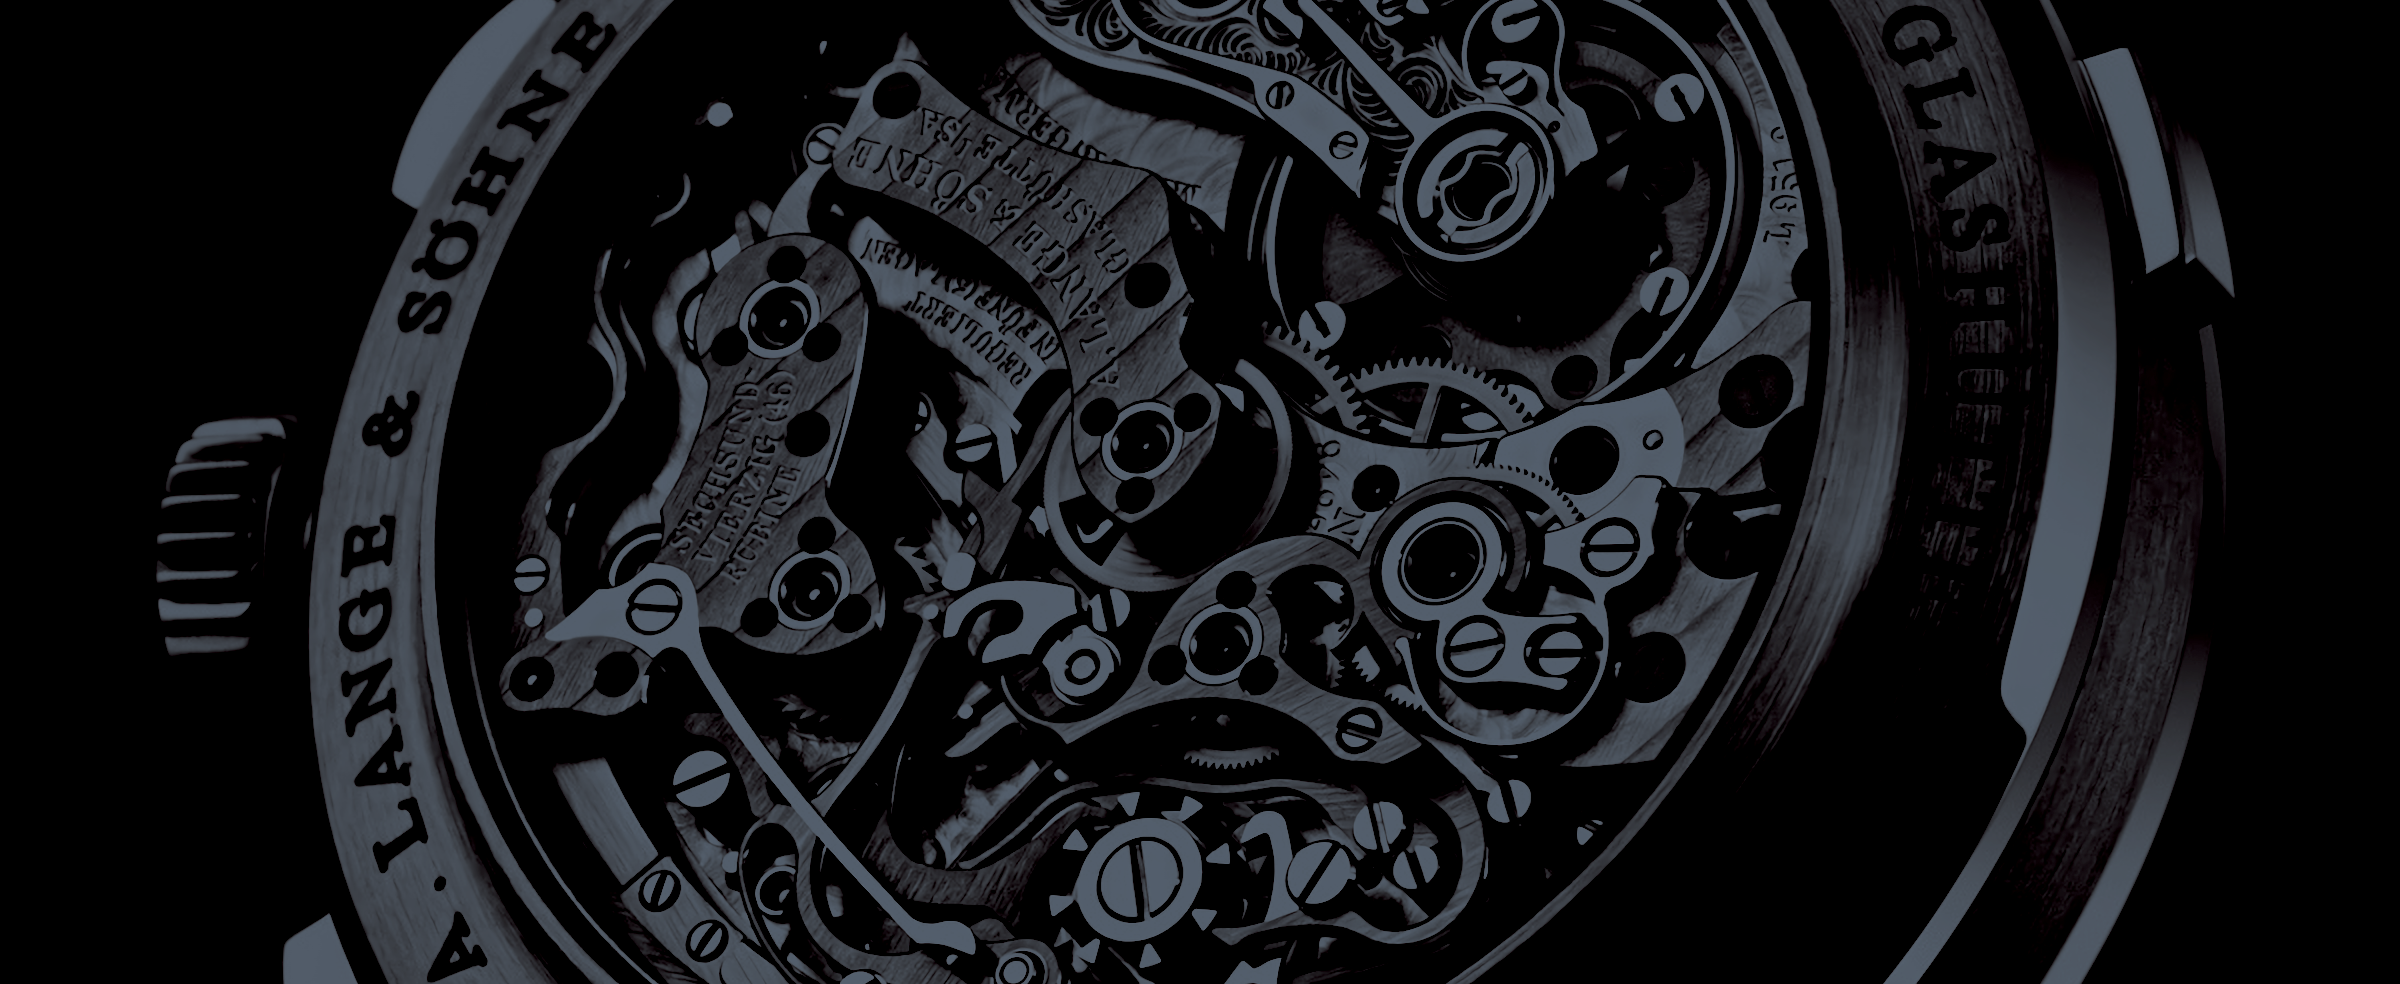
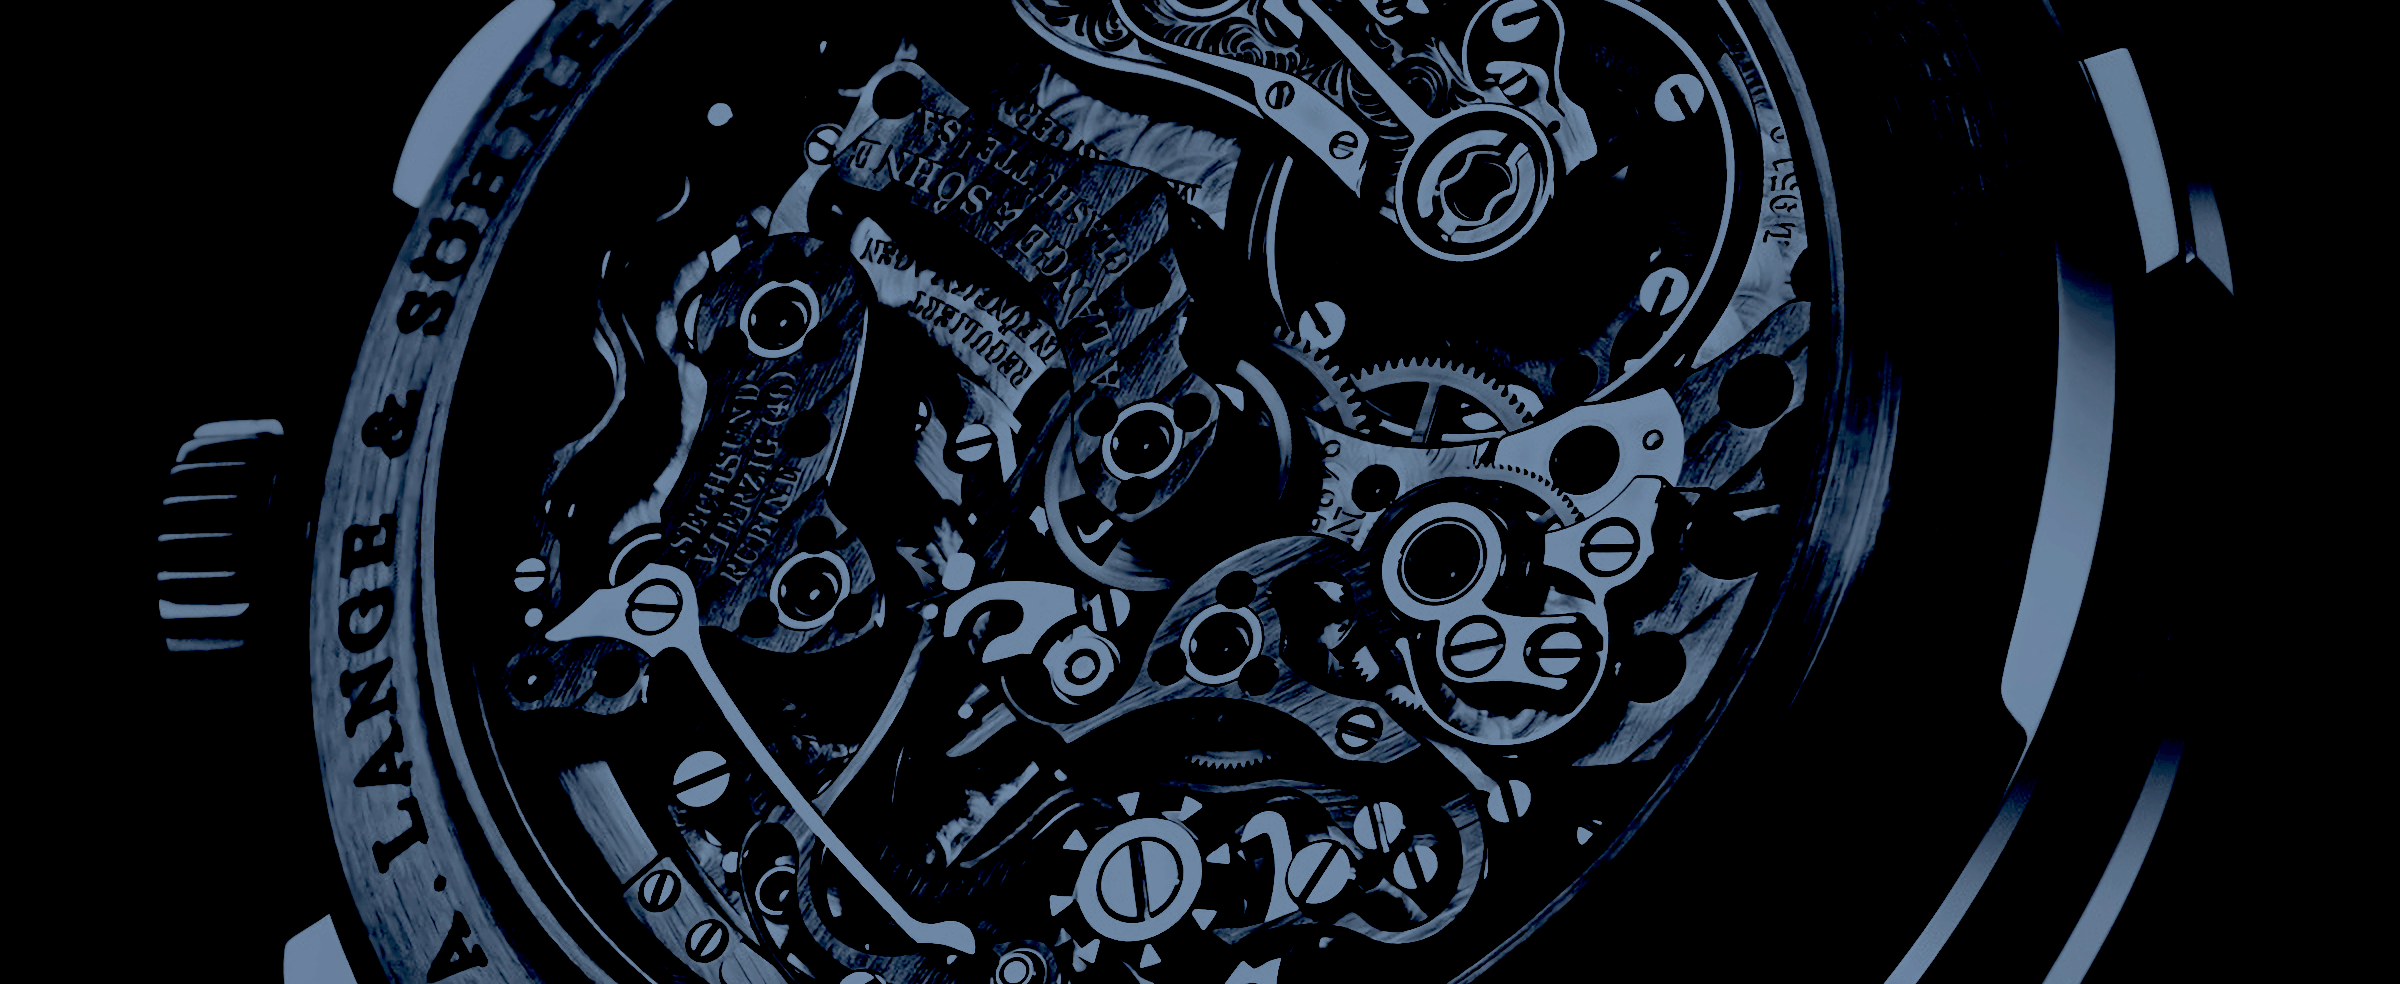
added contrast to image

Changed region(s): [[0.0625, 0.0, 0.9375, 1.0], [0.6562, 0.8232, 0.6875, 0.9146], [0.2812, 0.0915, 0.3125, 0.122]]

diff --git a/css/master.css b/css/master.css
@@ -22,15 +22,14 @@ body {
 
 .fade-in {
   opacity: 1;
-  transition: 4s;
+  transition: 3s;
 }
 
 /* NAVIGATION /////////////////////////////////////// */
 
 .nav-bar {
   z-index: 100;
-  /* background-color: white; */
-  background-color: #d5d1d1;
+  background-color: #e2dede;
   letter-spacing: 1px;
   position: fixed;
   top: 0;
@@ -40,9 +39,11 @@ body {
 }
 
 a {
-  font-family: 'Overpass', sans-serif;
+  /* font-family: 'Overpass', sans-serif; */
+  font-family: 'Roboto Condensed', sans-serif;
+
   text-decoration: none;
-  font-size: 1em;
+  font-size: 1.3em;
   color: black;
   padding: 0.5em;
 }
@@ -221,7 +222,7 @@ h3 {
 .site-link {
   display: inline-block;
   vertical-align: middle;
-  margin-top: 4em;
+  margin-top: 5.5em;
 }
 
 .overlay:hover {

diff --git a/js/main.js b/js/main.js
@@ -1,5 +1,5 @@
 $(document).ready(function () {
-  console.log("hello");
+  console.log("la volonta` costa niente");
 
   $('body').addClass('fade-in');
 
@@ -19,22 +19,12 @@ $(document).ready(function () {
     $('html, body').animate({
       scrollTop: $("#js-skills").offset().top
     }, 'slow');
-  })
+  });
 
   $('#contact').click(function () {
     $('html,body').animate({
       scrollTop: $("#js-contact").offset().top
     }, 'slow');
-  })
-
-  // const $name = $('#name')[0].innerHTML.split('');
-  // const $title = $('#title')[0].innerHTML.split('');
-  //
-  // console.log($name);
-  // console.log($title);
-  //
-  // for (let i = 0; i < $name.length; i++) {
-  //   console.log($name[i]);
-  // }
+  });
 
 });
